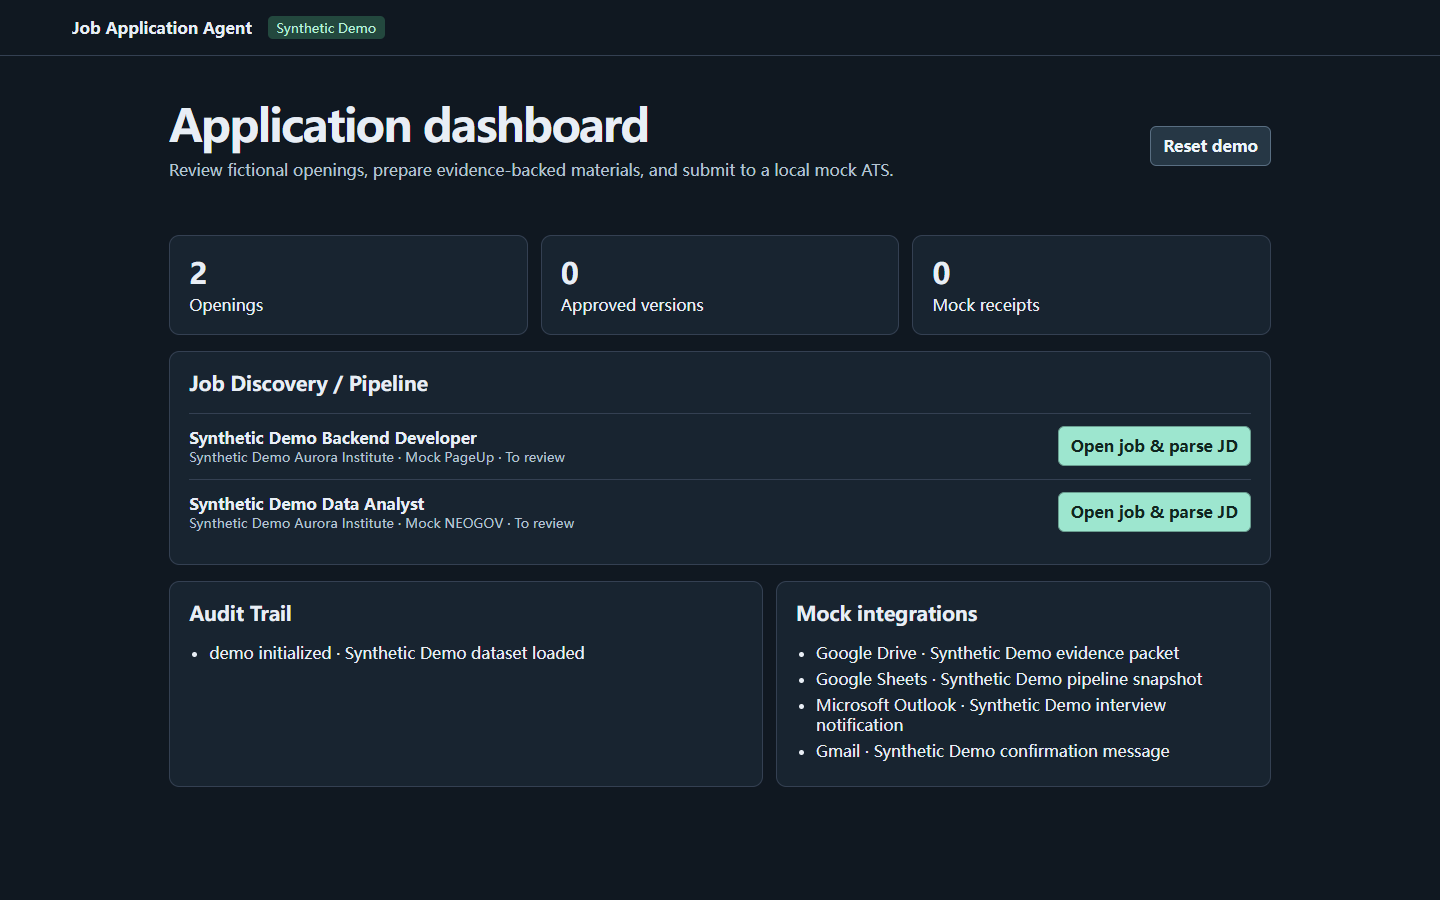
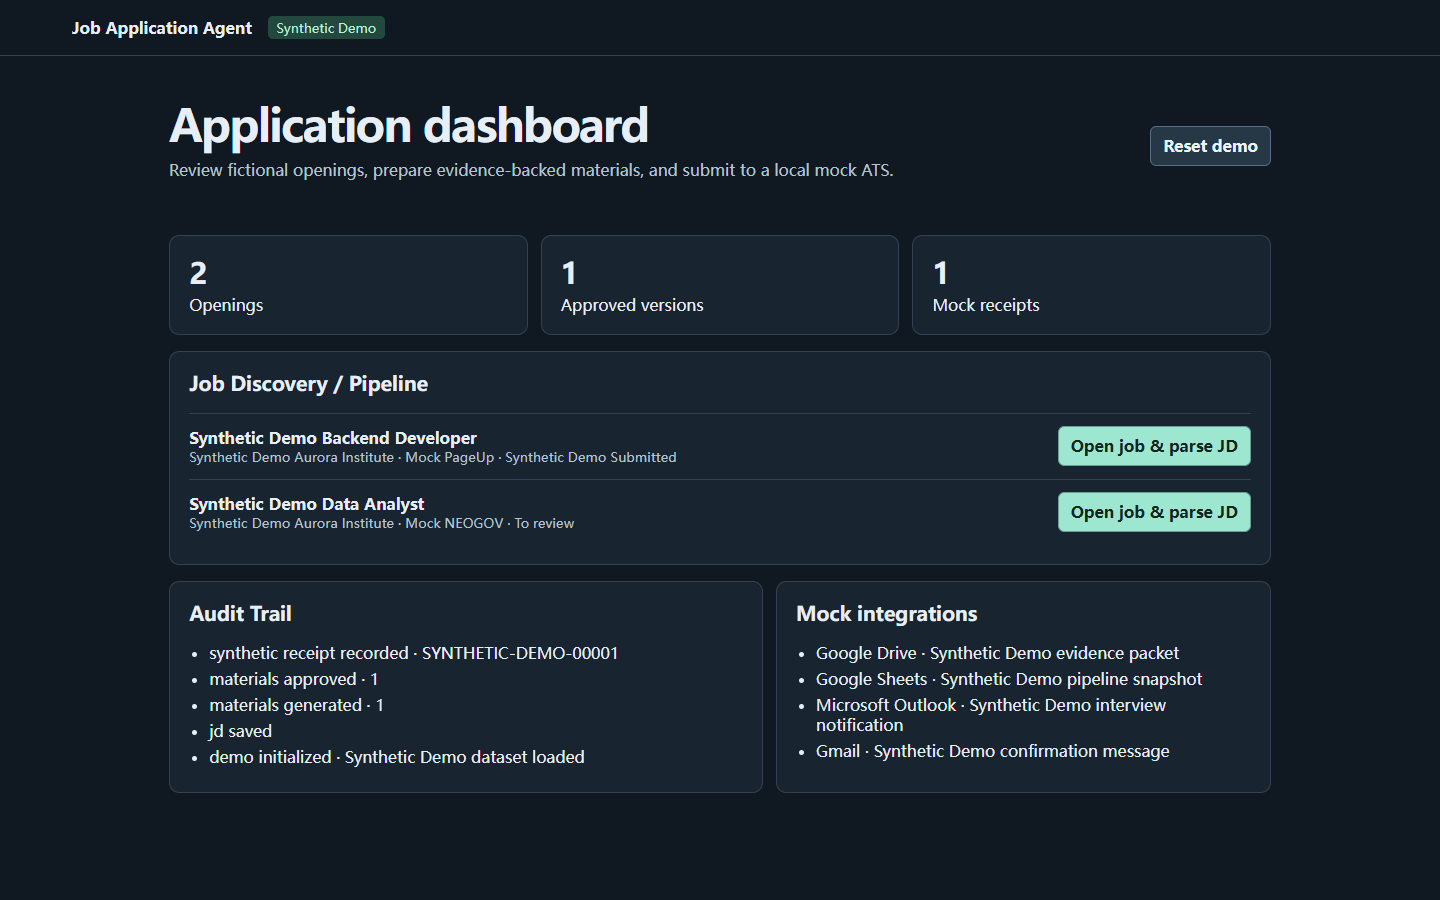
Document live demo and public release verification

diff --git a/tools/scan_release.py b/tools/scan_release.py
@@ -14,7 +14,7 @@ SOURCE = {
 FILES = {f'app/{name}.py' for name in SOURCE} | {
     '.dockerignore', '.env.example', '.gitignore', '.github/workflows/ci.yml',
     'README.md', 'ARCHITECTURE.md', 'DEMO_GUIDE.md', 'SECURITY.md', 'LICENSE-PENDING.md', 'LICENSE',
-    'requirements.txt', 'start.ps1', 'Dockerfile', 'render.yaml', 'docs/dashboard.png',
+    'requirements.txt', 'start.ps1', 'Dockerfile', 'render.yaml', 'docs/dashboard.png', 'docs/RELEASE_VALIDATION.md',
     'app/static/index.html', 'app/static/style.css', 'app/static/app.js', 'app/static/runner-fixture.js',
     'tests/test_demo.py', 'tools/scan_release.py',
 }

diff --git a/docs/RELEASE_VALIDATION.md b/docs/RELEASE_VALIDATION.md
@@ -1,0 +1,20 @@
+# Public release validation
+
+Validated on November 21, 2026.
+
+- [GitHub repository](https://github.com/hwen020/job-application-agent) and [v1.0.0 Release](https://github.com/hwen020/job-application-agent/releases/tag/v1.0.0).
+- [Render Free demo](https://job-application-agent-demo.onrender.com/) and [health check](https://job-application-agent-demo.onrender.com/healthz). Automatic deployment is disabled.
+- Deployed application commit `e1a906b363e42094b8939b7ebe25500a2409bb01`. [Application CI](https://github.com/hwen020/job-application-agent/actions/runs/44946965451) passed dependency setup, source and Git history scanning, Python compilation, and all five regression tests.
+- The original `v1.0.0` tag still points to `0a65d5f6b1d50d6c402d3b40a603b2389e6065da`. Use the hosted application revision or current main for per-visitor isolation.
+
+| Check | Outcome |
+| --- | --- |
+| Chromium desktop | Mock PageUp passed from JD review and PDF and DOCX generation through human approval, paused questions, resume, and receipt. A duplicate submission was rejected. The Pipeline and audit reflected the receipt, and refresh and reset worked. |
+| Chromium mobile at 390 px | Mock NEOGOV passed from Dashboard and materials through Runner, receipt, and reset. No document-level horizontal overflow was detected during the workflow. |
+| Two independent visitors | Visitor B could not read A's task or PDF. Resetting B preserved A's task and PDF. |
+| HTTPS and readiness | Public HTTPS reached the live Docker deployment. `GET /healthz` returned HTTP 200. No unexpected workflow HTTP or browser console errors were observed. |
+| Public application boundary | The session cookie was Secure, HttpOnly, and SameSite=Strict. Private file paths and real ATS entry routes were denied. |
+| Instance replacement | A manual redeploy of the same commit returned to healthy. A pre-replacement artifact was unavailable, the old visitor cookie was replaced, and the two seeded jobs returned with no prior receipts or approvals. A repeat dashboard read left the seed unchanged. |
+| Natural idle sleep and wake | NOT TESTED. The initial deployment and controlled instance replacement were observed. |
+
+[Public Dashboard screenshot](dashboard.png) · [Four-minute walkthrough](../DEMO_GUIDE.md)

diff --git a/DEMO_GUIDE.md b/DEMO_GUIDE.md
@@ -1,6 +1,13 @@
-# Walk through the Synthetic Demo
+# Four-minute Synthetic Demo walkthrough
 
-Start the app using the [README](README.md) and open the local dashboard at `http://127.0.0.1:8768`. Reset clears only your browser session's progress.
+Open the [Live Demo](https://job-application-agent-demo.onrender.com/) or start the app using the [README](README.md). Reset clears only your browser session's progress.
+
+| Time | What to show |
+| --- | --- |
+| 0:00–0:45 | Choose a fictional role and show the parsed JD, qualifications, and supporting evidence. |
+| 0:45–1:45 | Generate documents, review the PDF, and approve the exact material version. |
+| 1:45–3:15 | Run the Mock ATS, confirm the two paused questions, resume, review, and submit the mock form. |
+| 3:15–4:00 | Show the receipt, updated Pipeline, and Audit Trail. Reload to show recovery, then reset. |
 
 1. Open the dashboard and click **Reset demo** to clear the instance's demo progress.
 2. Choose **Synthetic Demo Backend Developer** for Mock PageUp or **Synthetic Demo Data Analyst** for Mock NEOGOV. Click **Open job & parse JD**.

diff --git a/README.md b/README.md
@@ -1,8 +1,14 @@
 # Job Application Agent — Synthetic Demo
 
+[Live Demo](https://job-application-agent-demo.onrender.com/) · [4-minute walkthrough](DEMO_GUIDE.md) · [Deployment and validation](docs/RELEASE_VALIDATION.md)
+
+[![Portfolio CI](https://github.com/hwen020/job-application-agent/actions/workflows/ci.yml/badge.svg?branch=main)](https://github.com/hwen020/job-application-agent/actions/workflows/ci.yml?query=branch%3Amain)
+
+**Synthetic Data Only · Mock ATS Only · No Real Job Submissions · Human Approval Required**
+
 A Python and SQLite portfolio application that follows a fictional job from JD parsing to a local Playwright receipt. Every job, organization, applicant, address and receipt in the demonstration is **Synthetic Demo**.
 
-![Synthetic Demo dashboard](docs/dashboard.png)
+![Live Synthetic Demo dashboard after a mock PageUp submission](docs/dashboard.png)
 
 ## Run locally
 
